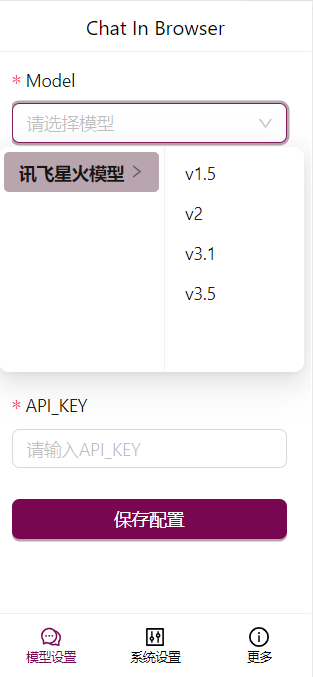
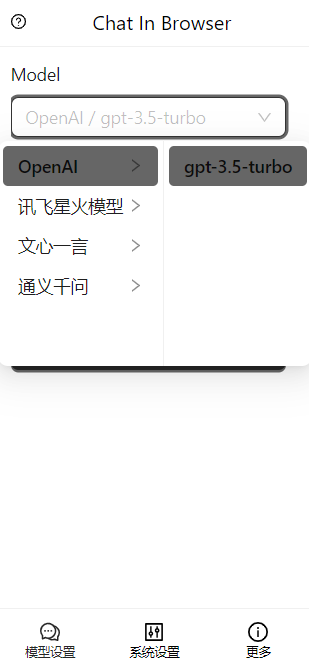
doc: v1.0.4文档更新

diff --git a/README.en.md b/README.en.md
@@ -8,15 +8,37 @@ ChatInBrowser allows you to chat anytime in your browser using a large model, an
 Currently supported models are:
 
 #### [OpenAI](https://platform.openai.com/docs/introduction)
-1. [gpt-3.5-turbo](https://platform.openai.com/docs/guides/text-generation/chat-completions-api)
+[gpt-3.5-turbo](https://platform.openai.com/docs/guides/text-generation/chat-completions-api)
 #### [Spark Model](https://xinghuo.xfyun.cn/sparkapi)
-1. [Spark v1.5](https://www.xfyun.cn/doc/spark/Web.html)
-2. [Spark v2.0](https://www.xfyun.cn/doc/spark/Web.html)
-3. [Spark v3.1](https://www.xfyun.cn/doc/spark/Web.html)
-4. [Spark v3.5](https://www.xfyun.cn/doc/spark/Web.html)
+[Spark v1.5](https://www.xfyun.cn/doc/spark/Web.html), [Spark v2.0](https://www.xfyun.cn/doc/spark/Web.html), [Spark v3.1](https://www.xfyun.cn/doc/spark/Web.html), [Spark v3.5](https://www.xfyun.cn/doc/spark/Web.html)
 #### [Ernie Bot](https://console.bce.baidu.com/qianfan/overview)
-1. [Ernie-3.5](https://cloud.baidu.com/doc/WENXINWORKSHOP/s/jlil56u11)
-2. [Ernie-4.0](https://cloud.baidu.com/doc/WENXINWORKSHOP/s/clntwmv7t)
+[Ernie-3.5](https://cloud.baidu.com/doc/WENXINWORKSHOP/s/jlil56u11), [Ernie-4.0](https://cloud.baidu.com/doc/WENXINWORKSHOP/s/clntwmv7t)
+#### [AliYun DashScope](https://help.aliyun.com/zh/dashscope/developer-reference/tongyiqianwen-large-language-models)
+[qwen-turbo](https://help.aliyun.com/zh/dashscope/developer-reference/model-introduction), [qwen-plus](https://help.aliyun.com/zh/dashscope/developer-reference/model-introduction), [qwen-max](https://help.aliyun.com/zh/dashscope/developer-reference/model-introduction)
+
+## Update Log
+2024-04-22 (v1.0.4)
+1. Supports Qwen-Turbo, Qwen-Plus, and Qwen-Max models.
+
+2024-04-18 (v1.0.3)
+1. Support Ernie Bot 3.5 and 4.0 models
+
+2024-04-16 (v1.0.2):
+1. Chat box now supports displaying the model version number to assist users in differentiation.
+2. Floating tooltips have been added to the top buttons within the chat box.
+
+2024-4-12 (v1.0.1):
+1. Added mask function, supporting the use of different prompts to fine-tune LLM.
+2. Added new user guide function to help users quickly get started with the plugin.
+3. Fixed some bugs.
+
+2024-4-8: 
+1. Popup defaults to displaying the last opened route page
+2. Fixed some bugs.
+
+2024-4-7: 
+1. Added support for DIY floating ball appearance.
+2. Fixed some bugs.
 
 ## Development Steps
 ### 1. Navigate to the Project Root Directory
@@ -99,24 +121,3 @@ After completing the model configuration, you can use the model.
 
 ## Let's Optimize This Project Together
 Welcome everyone to raise issues or submit code to improve this project!
-
-## Update Log
-2024-04-18 (v1.0.3)
-1. Support Ernie Bot 3.5 and 4.0 models
-
-2024-04-16 (v1.0.2):
-1. Chat box now supports displaying the model version number to assist users in differentiation.
-2. Floating tooltips have been added to the top buttons within the chat box.
-
-2024-4-12 (v1.0.1):
-1. Added mask function, supporting the use of different prompts to fine-tune LLM.
-2. Added new user guide function to help users quickly get started with the plugin.
-3. Fixed some bugs.
-
-2024-4-8: 
-1. Popup defaults to displaying the last opened route page
-2. Fixed some bugs.
-
-2024-4-7: 
-1. Added support for DIY floating ball appearance.
-2. Fixed some bugs.
